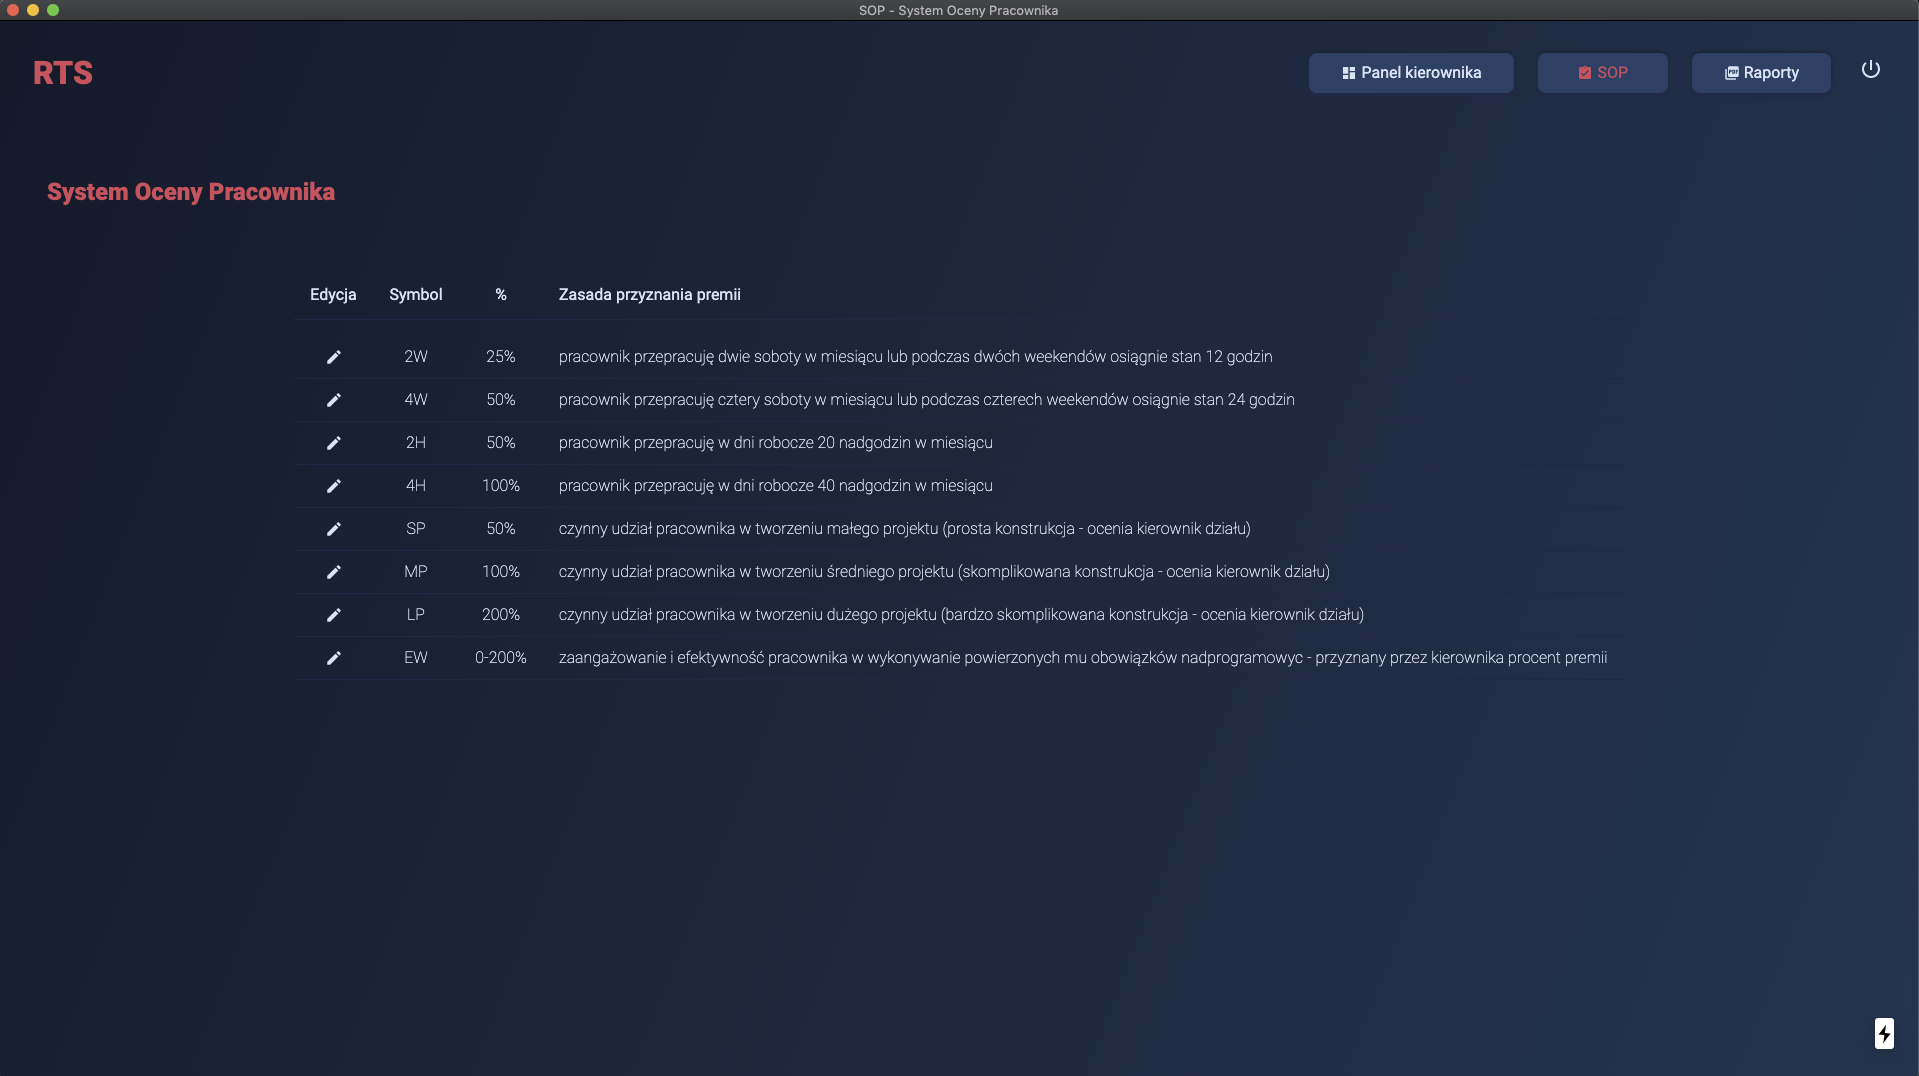
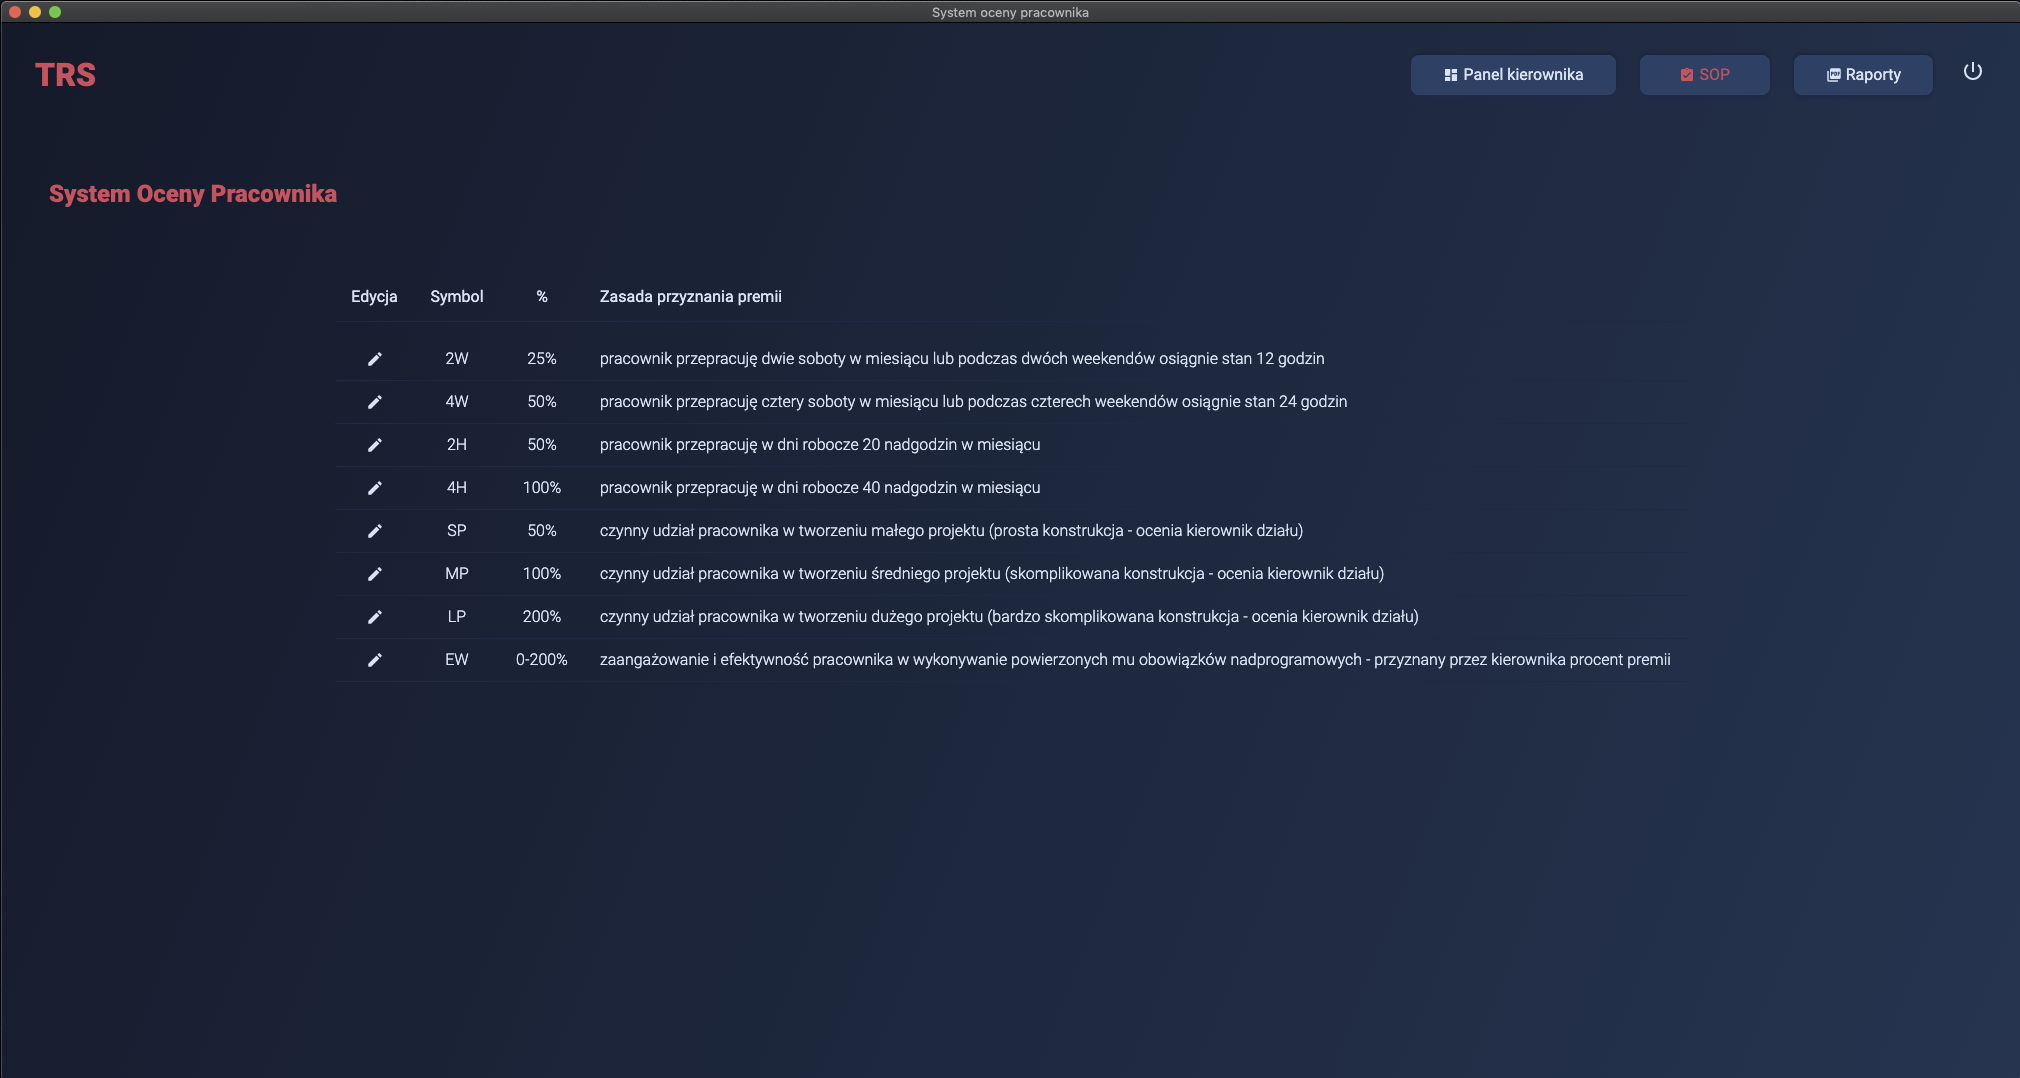
chore: change the example screenshots of the application

diff --git a/README.md b/README.md
@@ -5,13 +5,18 @@ The application does not require any external database or internet connection as
 
 ## Application 🚀
 
-![Dashboard screen](public/screenshots/dashboard.png)
-![Dashboard leave screen](public/screenshots/leave-screen.png)
-![Dashboard rts screen](public/screenshots/rts-screen.png)
-![Dashboard ees screen](public/screenshots/ees-screen.png)
-![Dashboard hr reports screen](public/screenshots/hr-screen.png)
-![Dashboard employee details screen](public/screenshots/employee-details-screen.png)
-![Dashboard employee calendar screen](public/screenshots/employee-calendar-screen.png)
+Application screenshots with dummy data
+
+![Login screen](public/screenshots/login-screen.png)
+![Employees dashboard screen](public/screenshots/employees-dashboard-screen.png)
+![Employee trs screen](public/screenshots/employee-trs-screen.png)
+![Employee holiday screen](public/screenshots/employee-holiday-screen.png)
+![Employee detail report screen](public/screenshots/employee-detail-report-screen.png)
+![Employee calendar report screen](public/screenshots/employee-calendar-report-screen.png)
+![Ees screen](public/screenshots/ees-screen.png)
+![Ees edit screen](public/screenshots/ees-edit-screen.png)
+![Hr trs report screen](public/screenshots/hr-trs-report-screen.png)
+![Hr bonus report screen](public/screenshots/hr-bonus-report-screen.png)
 
 ## What is it
 
